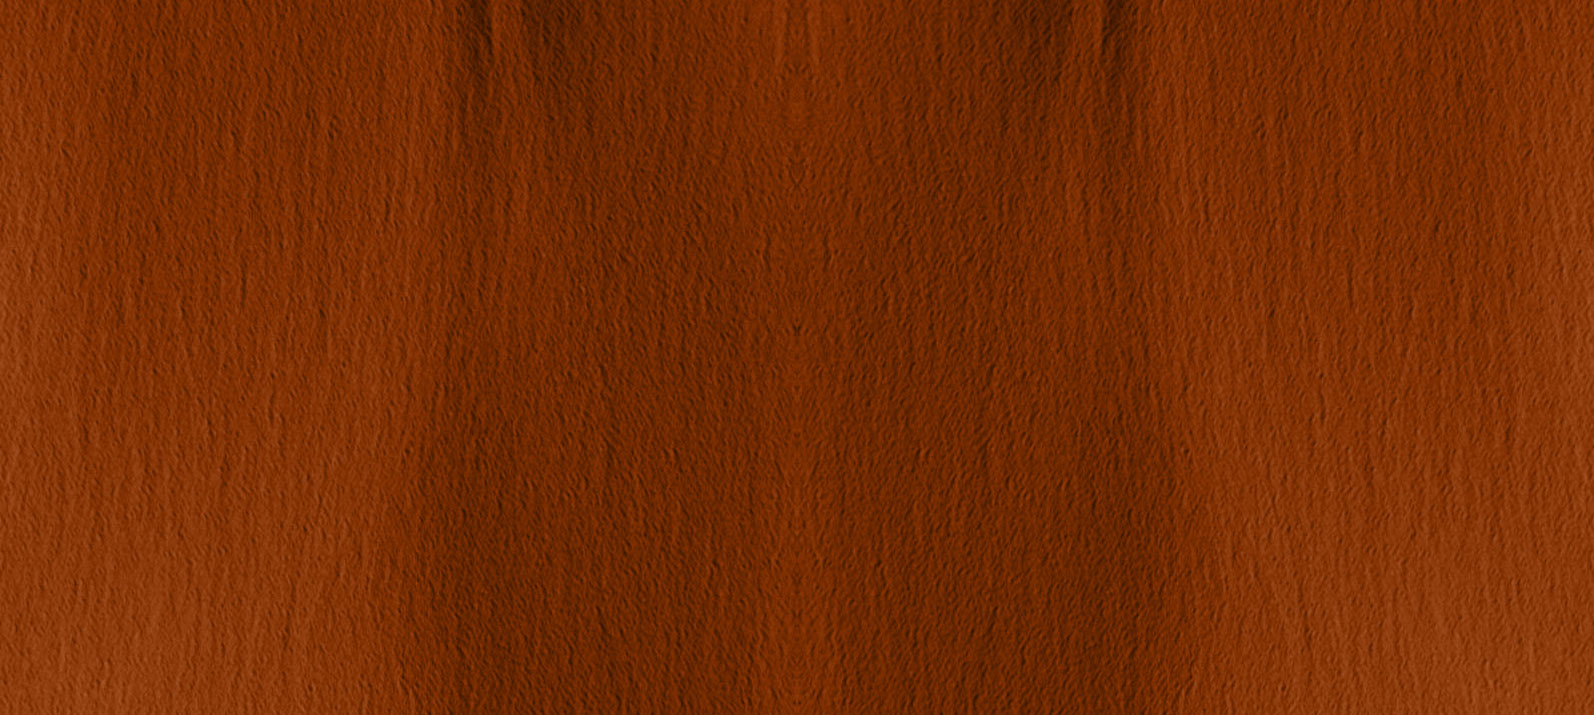
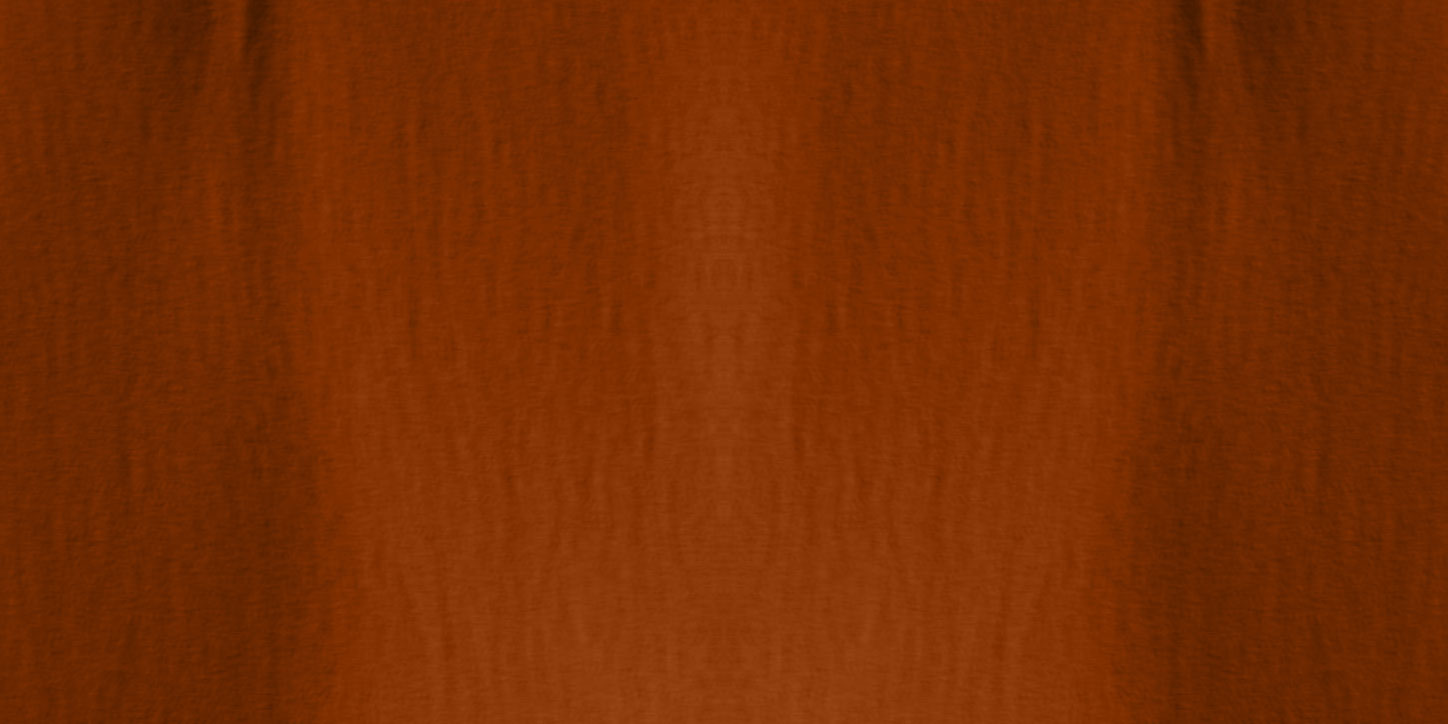
Loooots of tweaks to support no more scroll gate

diff --git a/app/App.tsx b/app/App.tsx
@@ -1,12 +1,13 @@
-import _ from 'lodash';
-import React from 'react';
 import Classnames from 'classnames';
+import React from 'react';
+import Smoothscroll from 'smoothscroll';
+import _ from 'lodash';
 import { findDOMNode } from 'react-dom';
 
-import { Nav } from './Nav';
-import { Page } from './Page';
 import { Flightplan } from './Flightplan';
 import { MediaGallery } from './MediaGallery';
+import { Nav } from './Nav';
+import { Page } from './Page';
 
 import './lib/reset.less';
 import './App.less';
@@ -25,8 +26,15 @@ interface AppState {
 	activePage: PageKey;
 	isBelowBreakpoint: boolean;
 	isLightboxOpen: boolean;
+	/** Whether the page is scrolling via navigation (smooth)  */
+	isScrollingToPage: boolean;
 	/** [0,1] */
 	scrollPercentage: number;
+}
+
+/** Returns the .Page element amtching the given pageKey. */
+function getPageElement(pageKey: PageKey) {
+	return document.querySelector(`[data-pagekey='${PageKey[pageKey].toLowerCase()}']`) as HTMLElement;
 }
 
 export class App extends React.Component<{}, AppState> {
@@ -37,8 +45,6 @@ export class App extends React.Component<{}, AppState> {
 
 	private hiddenBelowBreakpointRef: HTMLDivElement;
 	private pagesRef: HTMLDivElement;
-	/** Whether the page is scrolling viascrollIntoView  */
-	private isScrollingToNode = false;
 
 	componentWillMount() {
 		// add keyboard navigation listeners
@@ -64,10 +70,12 @@ export class App extends React.Component<{}, AppState> {
 			}
 		});
 
+		// figure out if we're narrow enough for mobile or not, and recalculate on window resize
 		this.setIsBelowBreakpoint(window.innerWidth < 768);
+		window.addEventListener('resize', this.checkBreakpoint);
 
 		// listen for hashchange so links work properly
-		window.addEventListener('ZZZZZZZZZZZhashchange', e => {
+		window.addEventListener('hashchange', e => {
 			const hash = document.location.hash.substr(1);
 			let pageKey = null as PageKey;
 			_.forEach(PageKey, (value, key) => {
@@ -78,58 +86,77 @@ export class App extends React.Component<{}, AppState> {
 			if (pageKey !== null)
 				this.navigateToPage(pageKey);
 		});
-
-		window.addEventListener('resize', this.checkBreakpoint);
 	}
 
 	componentDidMount() {
-		//setTimeout(this.checkBreakpoint, 100);
-
 		// handle initial navigation (via hash)
 		const activePageKey = Object.keys(PageKey).find(key => {
 			return key.toLowerCase() === window.location.hash.substr(1).toLowerCase();
 		});
-		if (activePageKey) {
-			const fragmentFromPageKey = (PageKey as any as { [key: string]: string })[activePageKey] as any;
-			this.navigateToPage(fragmentFromPageKey);
-		}
+		if (activePageKey)
+			// this timeout is to let the document render and download images
+			setTimeout(() => {
+				const fragmentFromPageKey = (PageKey as any as { [key: string]: string })[activePageKey] as any;
+				this.navigateToPage(fragmentFromPageKey);
+			}, 500);
 		else
 			window.history.replaceState({}, document.title, '/');
 
 		window.addEventListener('scroll', this.handleBodyScroll);
 	}
 
+	/** Updated state.isBelowBreakpoint accoring to whether the canary node is visible */
 	private checkBreakpoint = () => {
 		const computedStyle = this.hiddenBelowBreakpointRef && window.getComputedStyle(this.hiddenBelowBreakpointRef);
 		const isBelowBreakpoint = computedStyle && computedStyle.display === 'none';
 		this.setIsBelowBreakpoint(isBelowBreakpoint);
 	}
 
+	private updateScrollPercentage = (destinationPageKey?: PageKey) => {
+		const maxScrollTop = document.documentElement.scrollHeight - window.innerHeight;
+		let scrollPercentage: number;
+
+		if (destinationPageKey === undefined)
+			scrollPercentage = window.pageYOffset / maxScrollTop;
+
+		else {
+			const pageElement = getPageElement(destinationPageKey);
+			const pageRect = pageElement.getBoundingClientRect();
+			const destinationScrollTop = window.pageYOffset + pageRect.top;
+			scrollPercentage = destinationScrollTop / maxScrollTop;
+		}
+
+		// using three digits of precision seems to make things smoother
+		scrollPercentage = Math.floor(scrollPercentage * 1000) / 1000;
+
+		this.setState({ scrollPercentage });
+	}
+
 	private handleBodyScroll = _.throttle(() => {
-		if (this.isScrollingToNode)
-			return false;
+		if (this.state.isScrollingToPage)
+			return;
 
-		console.log('body scroll')
-		const maxScrollTop = document.body.scrollHeight - window.innerHeight;
-		const scrollPercentage = document.body.scrollTop / maxScrollTop;
-
-		/*
-		const activePage = _.findLast(PageKey as any, pageKey => {
+		/**
+		 * The closest page (to the viewport).
+		 * Defined as the last page which is more than half way up the viewport.
+		 * (It makes sense if you think about it.)
+		 */
+		const closestPage = _.findLast(PageKey as any, pageKey => {
 			if (_.isNumber(pageKey)) {
-				const curPageElement = document.getElementById(PageKey[pageKey].toLowerCase());
+				const curPageElement = getPageElement(pageKey);
 				const curPageRect = curPageElement.getBoundingClientRect();
-				if (curPageRect.top <= 0)
+				if (curPageRect.top <= window.innerHeight / 2)
 					return true;
 			}
 		}) as PageKey;
-		*/
 
-		this.setState({
-			//activePage,
-			scrollPercentage
-		});
-		//this.updateHash(activePage);
-	}, 100);
+		this.updateScrollPercentage();
+
+		if (this.state.activePage !== closestPage)
+			this.setState({ activePage: closestPage });
+
+		this.updateHash(closestPage);
+	}, 50);
 
 	private handleLightboxClose = () => {
 		this.setState({ isLightboxOpen: false });
@@ -149,23 +176,22 @@ export class App extends React.Component<{}, AppState> {
 			this.navigateToPage(this.state.activePage - 1);
 	}
 
-	/** Navigates to the given page, while maintaining state.isTransitioningToPage. */
+	/** Navigates to the given page. */
 	private navigateToPage = (pageKey: PageKey) => {
-		this.setState({
-			activePage: pageKey
-		});
+		this.setState({ activePage: pageKey });
+		this.updateScrollPercentage(pageKey);
+		this.updateHash(pageKey);
 
 		// scroll
-		this.isScrollingToNode = true;
-		const pageElement = document.getElementById(PageKey[pageKey].toLowerCase());
-		pageElement.scrollIntoView({
-			behavior: 'smooth'
-		});
-		setTimeout(() => {
-			this.isScrollingToNode = false;
-		}, 0);
-
-		this.updateHash(pageKey);
+		this.setState(
+			{ isScrollingToPage: true },
+			() => {
+				const pageElement = getPageElement(pageKey);
+				Smoothscroll(pageElement, 1000, () => {
+					this.setState({ isScrollingToPage: false });
+				});
+			}
+		);
 	}
 
 	private setIsBelowBreakpoint = (isBelowBreakpoint: boolean) => {
@@ -180,7 +206,7 @@ export class App extends React.Component<{}, AppState> {
 		const { activePage, isBelowBreakpoint, isLightboxOpen, scrollPercentage } = this.state;
 
 		const pageCount = Object.keys(PageKey).length / 2;
-		const backgroundVhPerPage = 4;
+		const backgroundVhPerPage = 5;
 		const totalBackgroundVh = backgroundVhPerPage * (pageCount - 1);
 		const backgroundStyle: React.CSSProperties = {
 			paddingBottom: `${totalBackgroundVh}vh`,
@@ -189,7 +215,10 @@ export class App extends React.Component<{}, AppState> {
 
 		const classnames = Classnames(
 			'App',
-			{ 'App--lightboxOpen': this.state.isLightboxOpen }
+			{
+				'App--lightboxOpen': this.state.isLightboxOpen,
+				'App--scrollingToPage': this.state.isScrollingToPage
+			}
 		);
 
 		return (
@@ -272,7 +301,7 @@ export class App extends React.Component<{}, AppState> {
 							onLightboxOpen={this.handleLightboxOpen}
 						/>
 						<p>
-							In 2016, I began pushing React at Zazzle (see <a href="#secondarymissions">RideWeather</a> for my origin story with React). I built an internal tool as a proof of concept, and then a wonderful opportunity presented itself: a total redesign of the order history page. This project was self-contained, complex enough to make a good stress test of our new React stack, and simple enough to be a feasible project.
+							In 2016, I began pushing React at Zazzle (see <a href="#rideweather">RideWeather</a> for my origin story with React). I built an internal tool as a proof of concept, and then a wonderful opportunity presented itself: a total redesign of the order history page. This project was self-contained, complex enough to make a good stress test of our new React stack, and simple enough to be a feasible project.
 						</p>
 
 						<h3>Exec buy-in on React</h3>
@@ -289,7 +318,7 @@ export class App extends React.Component<{}, AppState> {
 						</p>
 					</Page>
 
-					<div id={PageKey[PageKey.SecondaryMissions].toLowerCase()} />
+					<div data-pagekey={PageKey[PageKey.SecondaryMissions].toLowerCase()} />
 
 					<Page pageKey={PageKey.RideWeather}>
 						<h1>RideWeather</h1>

diff --git a/app/App.less b/app/App.less
@@ -23,11 +23,10 @@
 		background-repeat: no-repeat;
 		box-sizing: content-box;
 		transform: translateY(0);
-		transition: transform .5s ease;
 		z-index: -1;
 	}
-	&-pages {
-		
+	&--scrollingToPage &-background {
+		transition: transform 1s ease;
 	}
 
 	&-photoCredit {
@@ -39,10 +38,10 @@
 	}
 
 	/* flightplan overrides */
-	.Page#flightplan {
+	.Page[data-pagekey=flightplan] {
 		padding: 0;
 	}
-	.Page#flightplan .Page-content {
+	.Page[data-pagekey=flightplan] .Page-content {
 		max-width: none;
 		background: none;
 		font: inherit;
@@ -51,14 +50,14 @@
 	}
 
 	/* resume overrides */
-	.Page#resume .Page-content {
+	.Page[data-pagekey=resume] .Page-content {
 		img {
 			width: 100%;
 		}
 	}
 
 	/* contact overrides */
-	.Page#contact .Page-content {
+	.Page[data-pagekey=contact] .Page-content {
 		background: none;
 		max-width: none;
 		font: inherit;
@@ -109,7 +108,7 @@
 		left: -50%;
 		transform: rotate(12deg);
 		transition: transform .2s ease;
-		background: fade(@colorOrange, 75%);
+		background: fade(@colorOrange, 85%);
 	}
 
 	/* lightbox open; bring pages above the nav */

diff --git a/app/Nav.less b/app/Nav.less
@@ -1,5 +1,7 @@
 @import (reference) './lib/definitions.less';
 
+@toggleTransitionDuration: .2s;
+
 .Nav {
 	position: fixed;
 	z-index: 1;
@@ -69,7 +71,7 @@
 		left: 0;
 		background: fade(white, 95%);
 		transform: translateY(-100%);
-		transition: transform .2s ease;
+		transition: transform @toggleTransitionDuration ease;
 		color: @colorDarkCopy;
 		width: 100%;
 		display: flex;
@@ -117,7 +119,7 @@
 			background: fade(@colorWhite, 95%);
 			border-radius: 3px;
 			transform: rotate(0deg);
-			transition: transform .2s ease;
+			transition: transform @toggleTransitionDuration ease;
 
 			&:not(:last-child) {
 				margin-bottom: 4px;

diff --git a/app/Nav.tsx b/app/Nav.tsx
@@ -34,10 +34,14 @@ export class Nav extends React.Component<NavProps, NavState> {
 		const { activePage, isMobile } = this.props;
 		const { isOpen } = this.state;
 
+		let topLevelActivePage = activePage;
+		if ([PageKey.RideWeather, PageKey.KSP].indexOf(activePage) > -1)
+			topLevelActivePage = PageKey.SecondaryMissions;
+
 		const renderNavItem = (pageKey: PageKey, label: string) => {
 			const itemClassnames = Classnames(
 				'Nav-item',
-				{ 'Nav-item--active': activePage === pageKey }
+				{ 'Nav-item--active': topLevelActivePage === pageKey }
 			);
 
 			return (

diff --git a/app/Flightplan.less b/app/Flightplan.less
@@ -30,7 +30,7 @@
 		height: @circleWidth;
 		border-radius: 1000px;
 		overflow: hidden;
-		background: url('/img/orange-mars-close-2.jpg');
+		background: url('/img/orange-mars-close.jpg');
 		background-position: 50% 50%;
 		background-size: 200% auto;
 		display: flex;

diff --git a/app/Page.tsx b/app/Page.tsx
@@ -23,7 +23,7 @@ export class Page extends React.Component<PageProps, {}> {
 		return (
 			<section
 				className={classes}
-				id={pageName}
+				data-pagekey={pageName}
 			>
 				<div
 					className="Page-content"

diff --git a/app/index.tsx b/app/index.tsx
@@ -1,3 +1,5 @@
+/// <reference path="../typings/index.d.ts" />
+
 import React from 'react';
 import { render } from 'react-dom';
 import { AppContainer } from 'react-hot-loader';

diff --git a/typings/index.d.ts b/typings/index.d.ts
@@ -1,0 +1,4 @@
+declare module 'smoothscroll' {
+	function Smoothscroll(element: HTMLElement, duration?: number, callback?: () => void): void;
+	export default Smoothscroll;
+}

diff --git a/app/MediaGallery.less b/app/MediaGallery.less
@@ -132,7 +132,7 @@ html.mediaGalleryNoScroll {
 
 			li {
 				&:not(:last-child) {
-					margin-bottom: @gutterSmall;
+					margin-bottom: @gutter;
 				}
 			}
 		}
